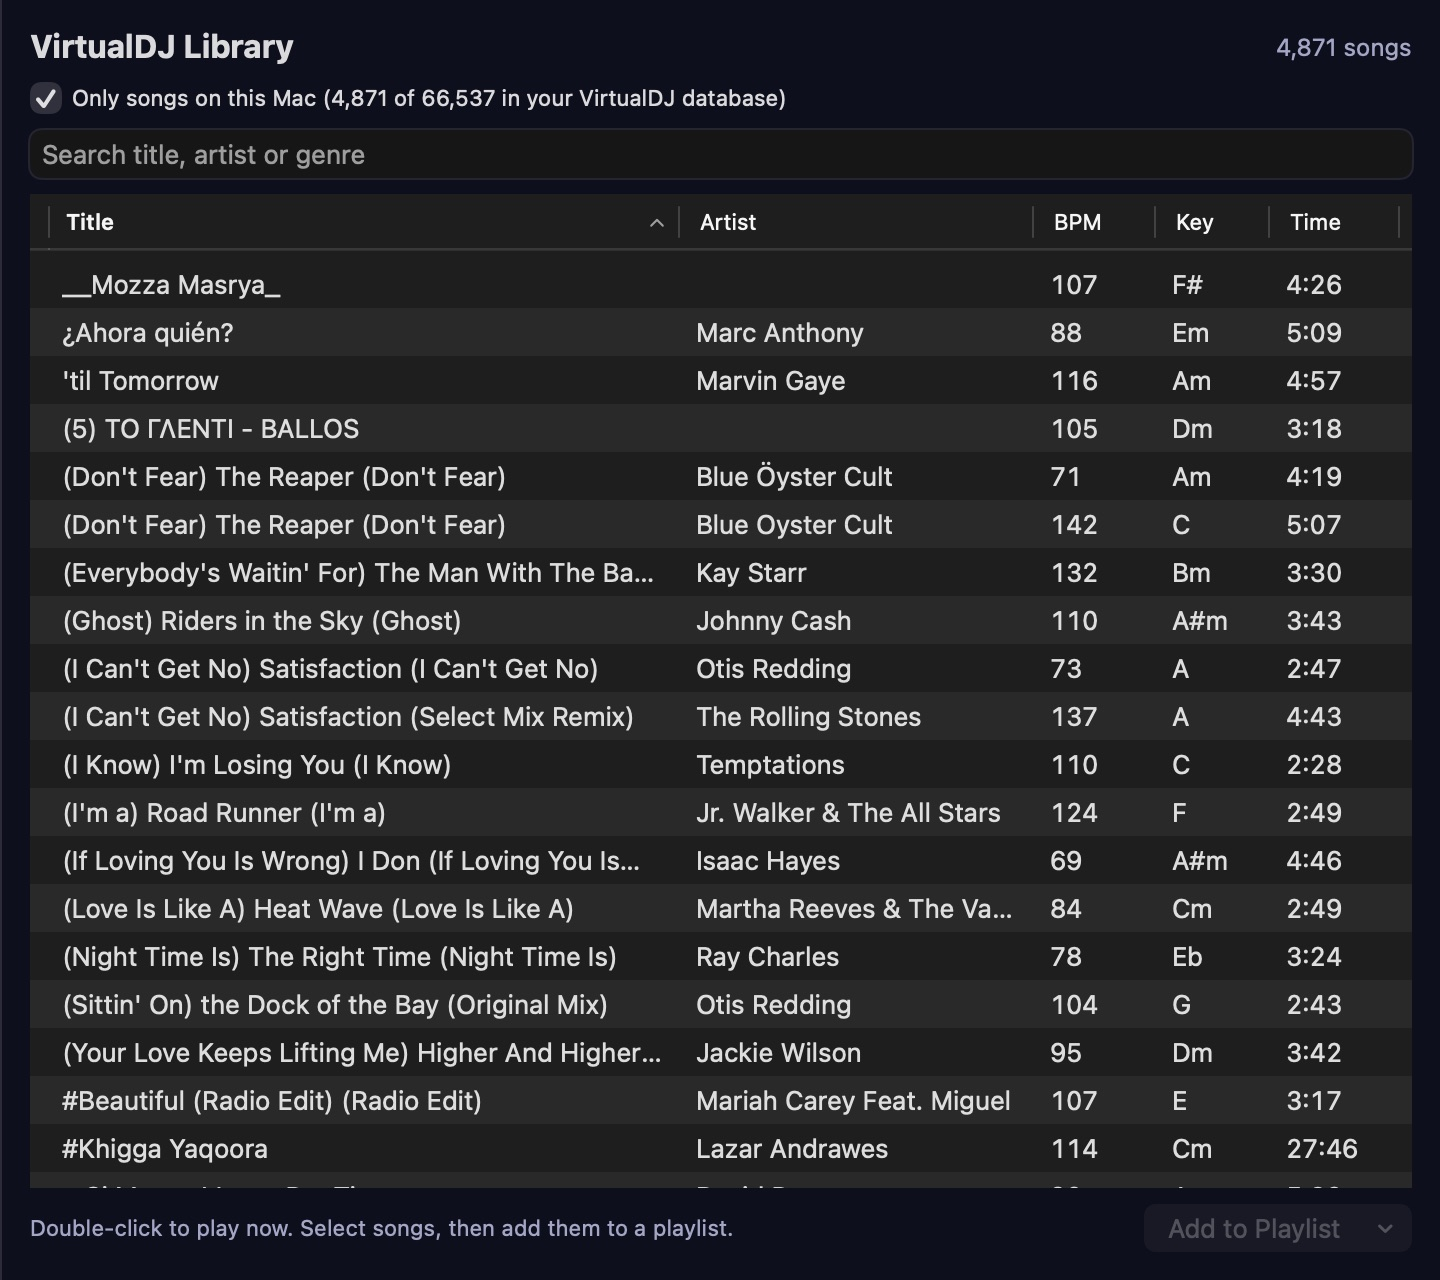
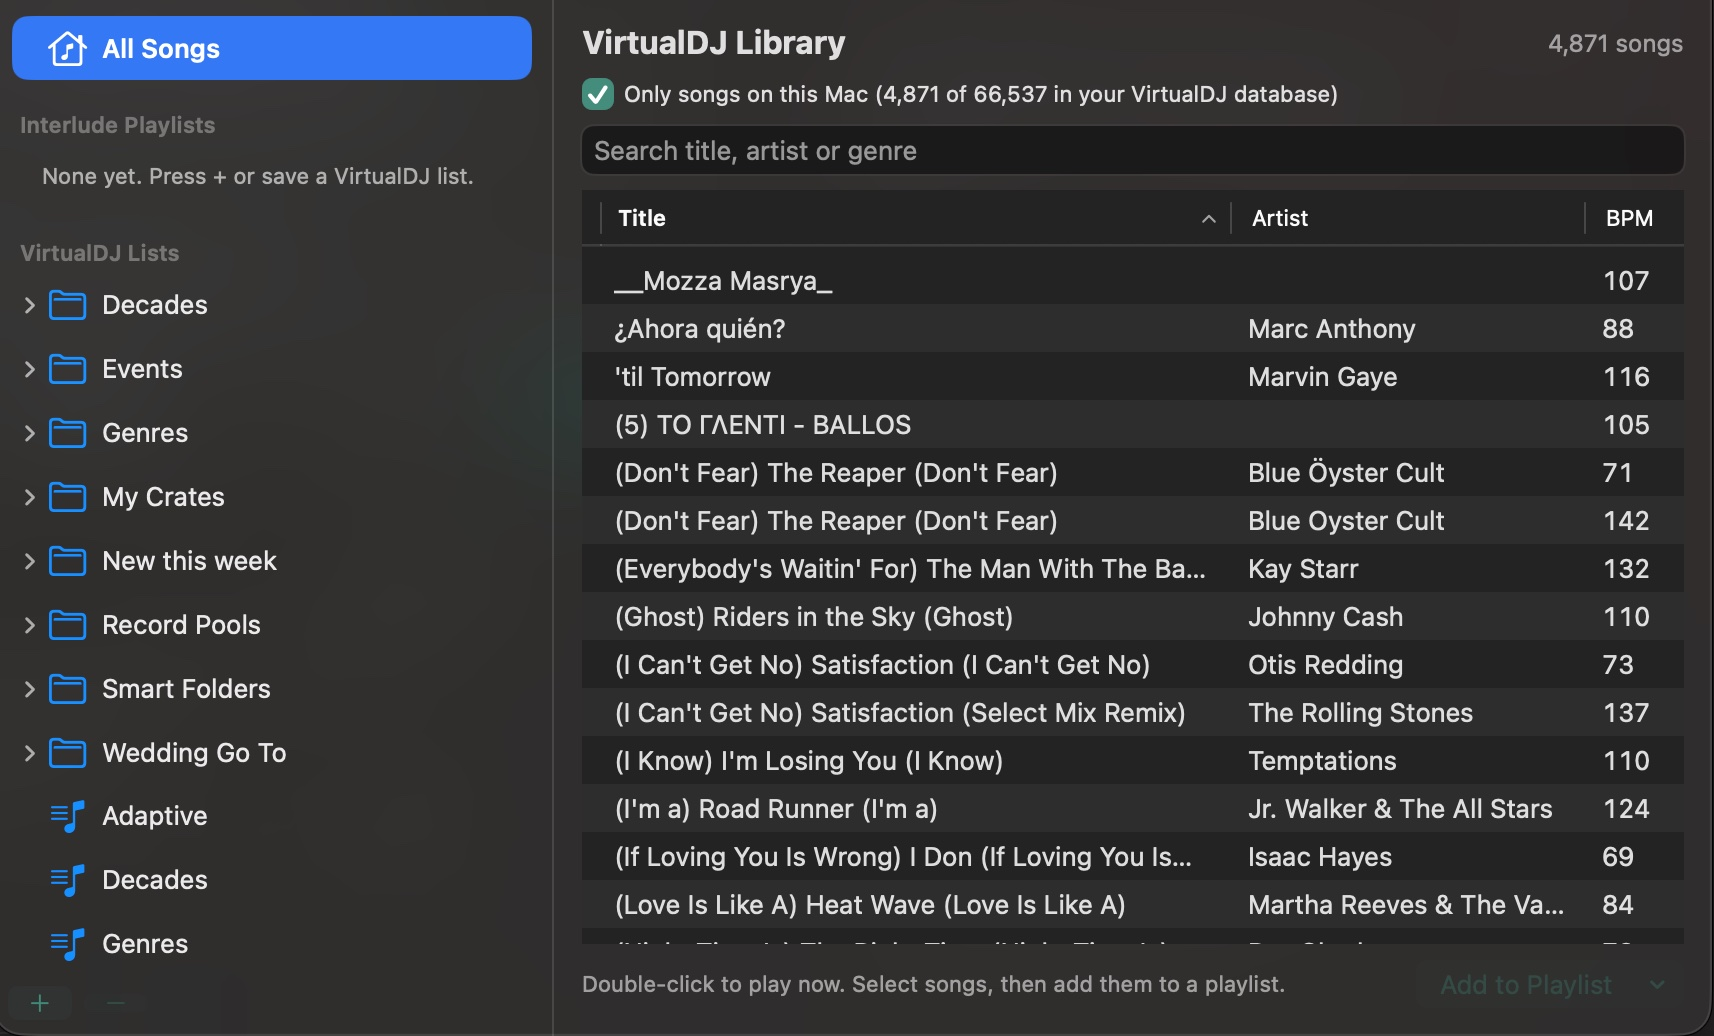
Real Library screenshot

diff --git a/index.html b/index.html
@@ -135,7 +135,7 @@
   <section id="library">
     <h2>Build your break playlists from your VirtualDJ library</h2>
     <p class="sub" style="font-size:16px">Interlude reads your VirtualDJ database and lists, so the songs you already own are ready to go. It only reads them. Your VirtualDJ files are never changed.</p>
-    <figure class="shot"><img style="max-width:760px;margin:0 auto" src="library.jpg" alt="The Interlude Library window listing songs from a VirtualDJ database" width="720" height="640"></figure>
+    <figure class="shot"><img src="library.jpg" alt="The Interlude Library window: your VirtualDJ lists in folders and your whole library" width="857" height="518"></figure>
   </section>
 
   <section id="screenshots">
